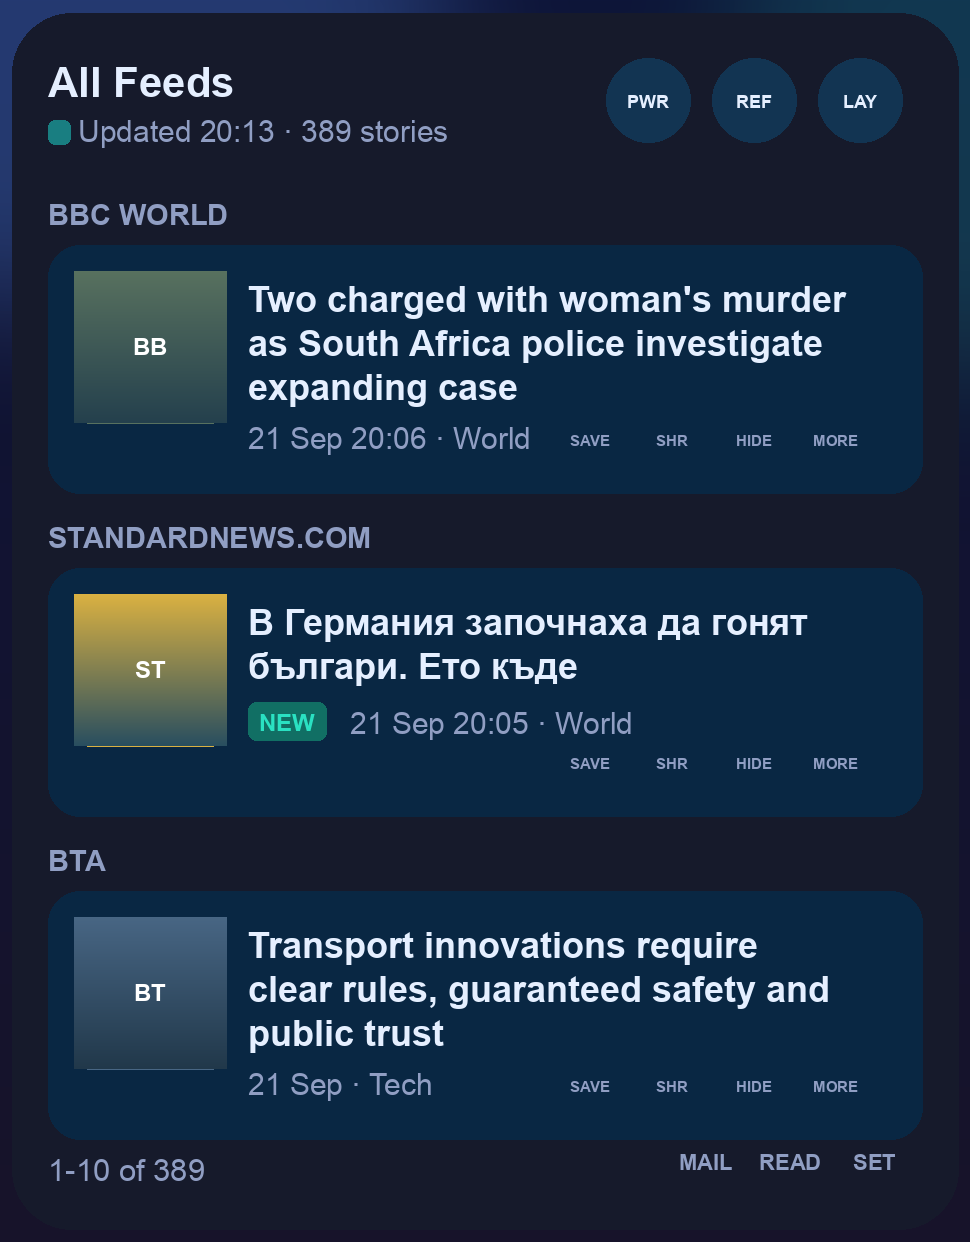
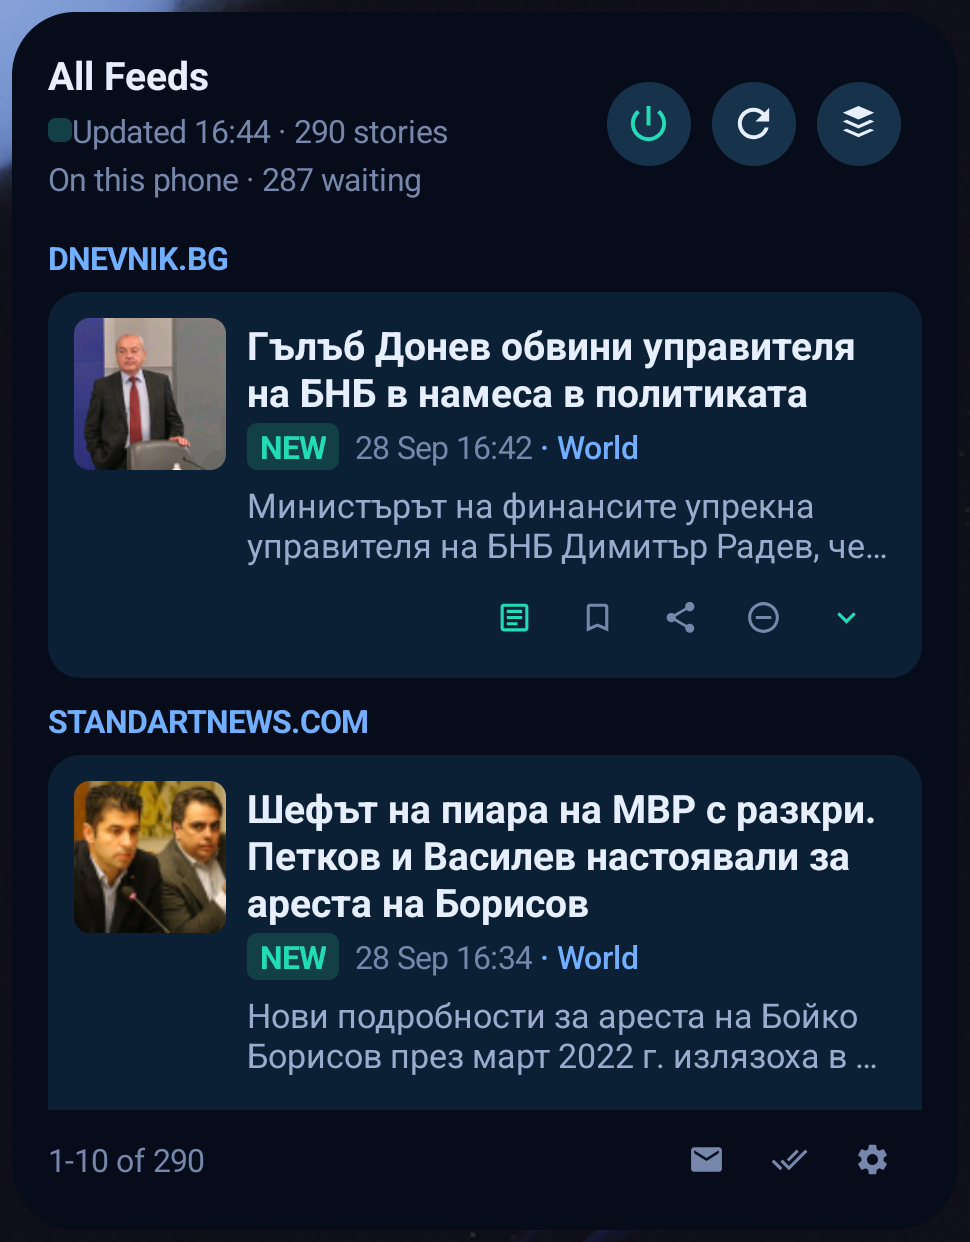
Show the widget and the app in motion in the README
Fresh screenshots of the three widget views from a clean install, two of
the app, and GIFs of scrolling, paging, opening a story, stack mode and
the unread filter. scripts/capture-media.sh takes the whole set again.

Claude-Session: https://claude.ai/code/session_016Ut7S8ZrHePHFdDV5UQGVb

diff --git a/README.md b/README.md
@@ -21,6 +21,25 @@ Left: the list, with the page counter, the unread filter, mark-all-read and
 settings along the bottom. Middle: a card opened up, so a long headline is not
 cut off. Right: stack mode, one story at a time with its own row of actions.
 
+### In motion
+
+| Scrolling the list | Paging ten at a time | Opening a story up |
+| --- | --- | --- |
+| ![Scrolling the widget list](docs/images/widget-scroll.gif) | ![Loading the next ten stories and jumping back](docs/images/widget-paging.gif) | ![Expanding and collapsing a card](docs/images/widget-expand.gif) |
+
+| Stack mode | Unread only |
+| --- | --- |
+| ![Stepping through stories in stack mode](docs/images/widget-stack.gif) | ![Turning the unread filter on and off](docs/images/widget-unread.gif) |
+
+### The app
+
+| The feed | A story | A quick tour |
+| --- | --- | --- |
+| ![The app's feed](docs/images/app-feed.png) | ![A story opened in the app](docs/images/app-story.png) | ![Scrolling the feed and opening a story](docs/images/app-tour.gif) |
+
+To take these again, run `scripts/widget-clean-install.sh`, then
+`scripts/capture-media.sh`.
+
 ## Goal
 
 - Build a native Android app, not a web wrapper.
